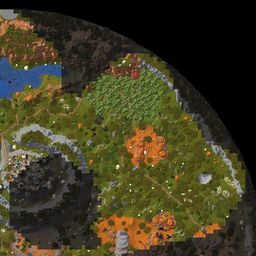
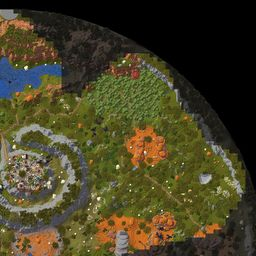
第 2 層探索地圖：被覆寫的那塊改用 wiki 第 2 層地圖補上（仍算已探索）
Claude-Session: https://claude.ai/code/session_01TCxb7TWhtNUuHK8FFaNG7L

Changed region(s): [[0.0312, 0.5938, 0.4062, 1.0]]

diff --git a/changelog.js b/changelog.js
@@ -18,7 +18,7 @@ window.SAO_CHANGELOG=[
   "第 3 層 9 位 NPC 的位置改用站長截圖推算（煉金術士、符文工匠、工具商人等，新增保險箱、拍賣場和 3 位沒有名牌的工匠），第 2 層符文項鍊工匠移到凱順聖所",
   "第 2 層商店賣的神祕護身符（等級 14、深灰色鏈子）和第 1 層的（等級 10、暗紅色鏈子）圖示不同，分成兩件；精通卷軸、重置卷軸的說明改成遊戲中文（精通＝重置技能點數、重置＝重置屬性點數）",
   "名稱裡有第 1 層首領或地下城的裝備（Kazor、墮落者、死神），取得樓層算第 1 層，不再出現在第 2、3 層",
-  "第 2 層探索地圖：烏爾巴斯東南方一塊混進別的世界的地形（茂密森林和黑色區域）已移除，那一帶暫時顯示成未探索",
+  "第 2 層探索地圖：烏爾巴斯東南方一塊被別的世界蓋掉的地形（茂密森林和黑色區域），改成 wiki 第 2 層地圖的同一塊",
   "打包探索地圖認得網站還沒有地圖的新樓層：勾選後一起上傳，網站自動判斷是第幾層（每個樓層第一次上傳不用再等站長先跑）；已知樓層的資料夾就算和網站地圖重疊很少也收得進來",
   "稀有度改成遊戲的分級，顏色和 wiki 一致：普通（綠）、稀有（藍）、史詩（紫）、傳說（金）、神話（紅，遊戲提示框的顏色）；原本的「傳說+」「傳說++」「SS」在遊戲裡都是神話，篩選也合併成「神話」",
   "小修正：地點的「名稱」說明不再和官方中文標題矛盾；探索地圖說明改寫成「合併過 N 次上傳（幾位）」；裝備的效果篩選框加寬"]],

diff --git a/jmmeta.js b/jmmeta.js
@@ -2622,21 +2622,21 @@ window.SAO_JM = {
  },
  "2": {
   "date": "2026-11-12",
-  "pct": 51.6,
+  "pct": 54.0,
   "log": [
    {
     "report": null,
     "date": "2026-11-12",
     "regions": 18,
-    "newChunks": 9264,
+    "newChunks": 9703,
     "by": "IICHENGII"
    }
   ],
-  "chunks": 9264,
+  "chunks": 9703,
   "fix": [
    {
     "date": "2026-11-12",
-    "what": "移除 (0,-1) 那張圖裡混進來的非第 2 層地形（烏爾巴斯東南方的森林和黑色區域），439 個區塊"
+    "what": "(0,-1) 那張圖裡混進來的非第 2 層地形（烏爾巴斯東南方的森林和黑色區域，439 個區塊）換成 wiki 第 2 層地圖的同一塊（站長有探索過，JourneyMap 的原圖被覆寫）"
    }
   ]
  },

diff --git a/CLAUDE.md b/CLAUDE.md
@@ -34,7 +34,7 @@
 | `index.html` | build 產生的檔案，不要直接改。build 會在每個本地 `<script src="x.js">` 後面加 `?v=內容雜湊`（2026-11-02：GitHub Pages 讓瀏覽器快取 10 分鐘，手機曾拿到新頁面配舊 `npcs.js`，篩選顯示錯的類別名稱）。Apps Script／Actions 直接改的資料檔（reports.js、jmmeta.js、formcfg.js）不會更新雜湊，和以前一樣最多 10 分鐘後更新 |
 | `data.js` | 第 1 層：`window.SAO` = MAP、STATUS、ZONES、M（怪物）、ITEMS、EXTRA、TOWNS、SPOTS、QUESTS |
 | `data23.js` | 第 2、3 層：`SAO23_ITEMS`、`SAO23.floors[2/3]`（第 3 層的 `floor3.jpg` 是本站畫的空白格線底圖，上面疊探索地圖）。**2026-11-11**：兩層 `status:"new"`（11/9 開放，官網新聞〈Floors 2 and 3 are open!〉 https://saominecraft.com/us/news/paliers-2-et-3-ouverts ；`soonNote`／樓層資訊列寫「資料還沒有遊戲畫面確認」），`lv` 改成新聞的怪物等級 11–15／15–19；第 2 層 20 個支線（wiki 11/7 刪表，使用者選 B）連同只為支線存在的城鎮（Havca、SamaelTVS、Typpe）和撿取點搬到沒在用的 `F2_SIDE_WIKI_OLD`，遊戲確認後可以放回；`// BEGIN build_mobphotos` 區塊是 `tools/build_mobphotos.py` 產生的「只有官網新聞有」的怪物（`addNews`，接在 wiki 怪物後面、id 不變，`news:1`，類型／行為未知＝`Unknown`／`U`，腐化版沿用本體）；鷹身女妖 1% 掉落改遊戲名 Feather of the Little Flame／Drop（遊戲才有的裝備，圖示從 11/5 拍賣場還原），第 3 層 10 隻補 Corrupted Fragment 100%（遊戲物品說明）；第 2、3 層資料整理報告在 scratchpad `f23/report.md`。**第 2 層地點**（使用者 2026-11-11「二層的傳送點、怪物區先參考互動地圖」）：參考地圖 Beta 資料（scratchpad `f23/ref_f23.json`，座標是它自己的 map-local，還沒對過遊戲）：城鎮 Urbus／Kaelor／Marome／Taran（原本暫稱西部／東部／西南聚落，`old`），參考地圖沒有傳送選單，城鎮標「傳送未知」；9 個怪物區和 3 個地下城入口用 `zone`（字串或陣列），`mons` 在檔尾依區域自動填（含新聞怪物）；地標 4 個。**第 2、3 層 NPC 和首領重生點、第 3 層地點**（使用者 2026-11-11「第2、3層從舊參考地圖補」）：`tools/build_npcs.py` 的 `load23` 讀 maps_floor2.js／maps_floor3.js 全部 NPC（src `ref23`，面板註明 Beta、座標沒對過遊戲；`refaire`→other、`runeCraftsmen`＝符文工匠，歸「其他 NPC」組），npcs.js 有 `2:`、`3:`；`F2.BOSS_SPAWNS`／`F3.BOSS_SPAWNS`（參考地圖名→本站怪物名：Morveth＝Morverth、Alpha of the Woods＝Woodland Alpha、Leader of the Bandits＝Bandit Chief、King of the Cave＝Cave King、Samurai Orc Boss＝Orc Samurai Boss…），`SPAWNS(f)` 每層都讀；第 3 層 26 個 biome 標籤進 `F3.spots`：名稱就是 wiki 區域名（只差 Camp/Camps、字序）的 11 個是怪物區（`zone`），Dungeon The Mysterious Islands 是地下城，其餘地標；Zumfut／Zumfut Mine、Terrialys Well／Pit 名稱不同沒連（note 寫明）；第 3 層沒有框線。**第 3 層地圖** `floor3.jpg` 是本站畫的空白底圖（深色圓、每 100 格格線；size 1700、x0 -253、z0 -79＝參考地圖 map-local 的中心 597,771 半徑 850）：wiki 沒有第 3 層地圖，參考地圖 repo 的 floor3.png 沒有授權，不用。aincradmap.app（Frankiie2121）的第 2、3 層就是 DelayedCode Beta 換介面（11/11 查：第 2 層 20 個地點座標完全相同；沒有授權條款，robots 禁 /api/），不當資料來源。地下城分頁現在也列樓層首領塔（排序：活動 → 首領塔 `isTowerSp`（zh 含「樓層首領」，卡片 `.dgtower`＋「樓層首領塔」標籤）→ 其他），萬聖節活動地下城只在第 1 層列；切樓層時清單沒有目前面板的東西就換成第一個、清單是空的就關掉面板。**第 2 層地圖**：`floor2.jpg` 的 12 個灰色圓點用 OpenCV inpaint 補掉、半徑 1017 外塗黑（原檔 scratchpad `f23/floor2_orig.jpg`），`clip:{c:500,r:484}`；9 個怪物區的 `area` 是本站依 wiki 地圖地形自己描的（不是參考地圖的多邊形）。**滾輪縮放**（使用者 2026-11-11「有延遲感」）：wheel 事件累加、每個動畫畫格只縮放一次（`wheelF`，依 deltaY 連續換算，觸控板也順），縮放中標籤大小變數（`--inv`／`--tk`／`--areaw`）只在倍率變 12% 以上或停下 120 ms 後才更新（`applyVars`）。**`.world` 不能加 `will-change:transform`**（11/11 加過：瀏覽器把整張地圖點陣化後放大，放大時框線、文字、底圖全糊，使用者回報後拿掉）。**讀取速度**（使用者 2026-11-11「讀取非常慢」，1.5 Mbps 手機模擬：地圖 17.7 秒才出現，字型 928 KB、底圖 1.35 MB、怪物頭像 312 KB、新版檢查又抓一次整頁）：`#mapLo`＝`map.lo` 的 512px 預覽圖（`floor1_s.jpg`／`floor2_s.jpg`／`floor3_s.jpg`，約 47 KB）先顯示，`mapImg` 載完才藏；`floor1/2.jpg` 改漸進式 JPEG q85；`img/mobs/*.png` 改 256 色 PNG（`build_mobphotos.py` 的 `png8`）；新版檢查 `updCheck` 只抓頁首 2 KB（Range）、開頁 20 秒後才檢查；**不載入中文網路字型**（使用者選 A：字型清單用 PingFang TC／Noto Sans CJK TC／Microsoft JhengHei 等系統字型，Chakra Petch／JetBrains Mono 照舊）→ 上線後同條件：預覽 4.4 秒、清楚地圖 9.7 秒 |
-| （第 2、3 層的 JourneyMap，2026-11-12） | 站長本機 Claude 列了 `journeymap/data/mp`（`tools/jm_floors_local.md`／`jm_floors_local2.md`，資料 scratchpad `f23/jm_folders.json`、`f23/jm/jm_f23/`，inbox 已刪）：**每一層是不同的伺服器資料夾**（第 1 層 `Triggers_815bd3d6…`、第 2 層 `Triggers_ba411067…/overworld`、第 3 層 `Triggers_95a78a58…/overworld`；別的玩家的 UUID 可能不同，所以一律靠顏色比對認樓層）；以下用途是**從資料夾名稱和圖片推測、站長還沒確認**：沒有 UUID 的 `Triggers/overworld` 像大廳（灰色平台、放射狀結構），不收；`…_djtaurus`（2 次進場，只有洞穴層）可能是第 2 層的牛人地下城，網站還不認得；`gorge_rugiboeuf`、`pre_breches` 在第 2 層的座標上、地形大致相同但**不是原樣**（峽谷的競技場中間沒有沙地圓盤），像是首領戰的副本 → 第 2、3 層只收 `overworld` 資料夾；`repaire_velindra`、`chambre_ambre` 只有洞穴層，不收；**更正（2026-11-12 使用者「二層探索地圖有問題」）**：(0,-1) 那張圖在第 2 層資料夾裡**本身就被別的世界的畫面蓋掉一塊**（烏爾巴斯東南方的茂密森林＋黑色虛空，和 wiki 第 2 層地圖完全不同；第 3 層資料夾的 (0,-1) 是同一塊的一部分，一模一樣），站長說那一帶有在第 2 層探索過＝原本的真地形被 JourneyMap 覆寫、沒有正確的版本可還原。已從 `tiles/f2jm` 拿掉 439 個區塊（scratchpad `f2mask.npy`：和 wiki 地圖逐區塊比色＋補洞，`f2cmp.png`／`f2mask.png`），改回未探索的變暗 wiki 底；第 2 層探索 54%→51.6%，jmmeta `"2".fix` 記錄。那一帶重新走過、用打包工具上傳就會補回（區塊現在是未探索，會被當成新的收）。**座標**：第 2 層 JourneyMap 用 SIFT 對 wiki 圖 2,030 點、殘差 0.18 px：網站原本的 `size 2124、x0=z0=-1062` 完全正確；參考互動地圖的第 2 層座標＝遊戲座標（Taurus 塔中心 −160.6, 795.8 對它的 −160, 795）；第 3 層它的 floor3.png 對 JourneyMap 只差 X 2 格（沒有把點位移 2 格：不知道它的點是遊戲裡讀的還是從圖上量的）。只驗證了座標系統和 Taurus 塔，個別 NPC／首領點沒驗證，說明文字照這樣寫。 |
+| （第 2、3 層的 JourneyMap，2026-11-12） | 站長本機 Claude 列了 `journeymap/data/mp`（`tools/jm_floors_local.md`／`jm_floors_local2.md`，資料 scratchpad `f23/jm_folders.json`、`f23/jm/jm_f23/`，inbox 已刪）：**每一層是不同的伺服器資料夾**（第 1 層 `Triggers_815bd3d6…`、第 2 層 `Triggers_ba411067…/overworld`、第 3 層 `Triggers_95a78a58…/overworld`；別的玩家的 UUID 可能不同，所以一律靠顏色比對認樓層）；以下用途是**從資料夾名稱和圖片推測、站長還沒確認**：沒有 UUID 的 `Triggers/overworld` 像大廳（灰色平台、放射狀結構），不收；`…_djtaurus`（2 次進場，只有洞穴層）可能是第 2 層的牛人地下城，網站還不認得；`gorge_rugiboeuf`、`pre_breches` 在第 2 層的座標上、地形大致相同但**不是原樣**（峽谷的競技場中間沒有沙地圓盤），像是首領戰的副本 → 第 2、3 層只收 `overworld` 資料夾；`repaire_velindra`、`chambre_ambre` 只有洞穴層，不收；**更正（2026-11-12 使用者「二層探索地圖有問題」）**：(0,-1) 那張圖在第 2 層資料夾裡**本身就被別的世界的畫面蓋掉一塊**（烏爾巴斯東南方的茂密森林＋黑色虛空，和 wiki 第 2 層地圖完全不同；第 3 層資料夾的 (0,-1) 是同一塊的一部分，一模一樣），站長說那一帶有在第 2 層探索過＝原本的真地形被 JourneyMap 覆寫、沒有正確的版本可還原。`tiles/f2jm` 的這 439 個區塊（scratchpad `f2mask.npy`：和 wiki 地圖逐區塊比色＋補洞，`f2cmp.png`／`f2mask.png`）**換成 wiki 第 2 層地圖的同一塊（原色、不變暗），仍算已探索**（使用者「不應該是未探索」；先做的「改回未探索」被否決）：wiki 圖和網站框架用 SIFT 對過（1 px≈1 格），接縫對得上；jmmeta `"2".fix` 記錄，探索比例維持 54%。之後有人上傳那一帶的真 JourneyMap 圖會蓋過去（已探索區塊照常比色，wiki 那塊的顏色和 JourneyMap 相近，應該對得上，沒實測）。**座標**：第 2 層 JourneyMap 用 SIFT 對 wiki 圖 2,030 點、殘差 0.18 px：網站原本的 `size 2124、x0=z0=-1062` 完全正確；參考互動地圖的第 2 層座標＝遊戲座標（Taurus 塔中心 −160.6, 795.8 對它的 −160, 795）；第 3 層它的 floor3.png 對 JourneyMap 只差 X 2 格（沒有把點位移 2 格：不知道它的點是遊戲裡讀的還是從圖上量的）。只驗證了座標系統和 Taurus 塔，個別 NPC／首領點沒驗證，說明文字照這樣寫。 |
 | （2026-11-08～11-12 截圖 in24，373 張） | 站長本機 Claude 推到 `inbox/`（2fda9f2～f27f40e），轉存 scratchpad `in24/`，轉錄 `in24_tA～tC.json/.md`、網站畫面回饋 `in24_snips.md`，從分支刪掉。**使用者 2026-11-12 決定**：①腐化碎片長得不一樣＝三件不同物品（`data23.js` 的 `Corrupted Fragment`／`(2)`／`(3)`＝綠／藍／紫框，`fr` 都是 null，哪一件是官網 2380 不知道；微腐化魔法書要 32／16／8，配方列順序推測對應顏色）；②同名物品依**圖示**判斷（第 2 層商店的神祕護身符是深灰鏈子，第 1 層是暗紅 → `Occult Amulet (2)`，SAO23_ITEMS 的 EQX）；③「3A」第 2、3 層 NPC 位置用截圖推算（F3 除錯畫面的玩家座標＋準星打到的方塊，NPC 在兩者之間，約 ±2 格）：`build_npcs.py` 的 `CALC23`／`NEW23`，`SAO_NPC_CALC` 的 key 是「樓層\|名稱」、`m:"f3"`，`npcCalcNote` 依樓層找；`NPC_NOTE` 只用在第 1 層（第 3 層也有 Vault、Auction House）；④「4A」名稱有 Kazor／Déchu／Faucheuse／Reaper／Fallen、又沒有其他取得資料的裝備，`objFloors` 算第 1 層（之後再檢查架構）。**配方分樓層**：`recipes.js` 的 key 是第 1 層 NPC 名或「3\|Alchemist」（第 3 層也有 Alchemist），網站 `rKey`／`rSplit`／`RCP(f,name)`；`build_recipes.py` 的 `SHOTS23`（(樓層, npcs.js 名稱) → 列）／`OID23`／`LV23`；配方分頁只列目前這一層（`RCVF`、`rcFill` 換樓層時重建分類和 NPC 下拉）；材料沒有英文名的直接寫遊戲中文名，`en2go` 也索引 zhnames 的 `zh`（中文名對得到官網 id 就有圖示和連結）。第 3 層 NPC 對照：神器鐵匠（視窗 P3 - Craft Artefact de Sylnovar）＝參考地圖 Sylnovar Accessories Blacksmith（差 19 格，推測）；3 位沒有名牌的工匠用視窗標題當名稱；第 2 層符文項鍊（視窗「2 -」）掛在 Manufacturer of the Runic Necklace（參考地圖差 39 格，推測）；骷髏頭骨（第 2 層 30 分鐘版）的材料順序看不出來，沒收；死靈法師魔杖只看到「製作地點」，沒收配方。`zhnames.js` 加約 124 筆（`src:"shot24"`）、`mobsByName` 50、`places`（公牛之湖、凱順聖所、埃蘭之地、烏爾巴斯、瑪羅姆、阿斯特里歐斯的巢穴）、F3 NPC 中文和 `npcEn`；`sets.js` 加 11 套（中文 `zh:1`）和品質強化劑 III／品質藥水 IV～VI 效果（`effZh` 認「applies 15min of cooldown」）；`gamestats.js` 加 13 件（1547／1549／1551 只改稀有度 EPIC）；`gameinfo.js` 精通卷軸＝重置技能點數、重置卷軸＝重置屬性點數（11/4 英文提示寫 attribute，照較新的中文）；`data23.js` 尾端 `GAME_DROPS`（遊戲取得途徑的掉落，蓋過新聞／wiki，怪物 note 註明；Winnie 的熊脂拿掉＝遊戲只列森林熊）；`mainq.js` 第 2 層 6 個、第 3 層 1 個主線（標題是遊戲中文名，每層自己的編號，`tip` 寫只看到這一步）；`f2boss` 加 `dg`＝阿斯特里歐斯的巢穴（是不是這座塔還不確定，note 寫明；`dg.lootNote`、`dg.key` 沒有做法時面板顯示鑰匙名）。還沒做：第 2 層玄武岩三角洲、帕薩艾爾山（網站沒有地點）、Spider Loot Repreneur 的位置（看不出是哪一位收購商）、腐化碎片圖示、拍賣場價格（不放）。 |
 | `bosses.js` | 世界首領 Galiath、獨特怪物 Seraphel、wiki 列的其他首領 |
 | `img/bosses/` | 世界王頁的首領模型圖（2026-11-06，使用者選 A）：官網世界首領頁 2026-11-05 改版成「Bestiary」，「See up close」視窗有 `/da/bestiary/<id>-34.webp`（3/4）和 `-face.webp`（正面），透明背景、高 1024px，伺服器時間台灣 11/5 15:01 上傳。裁到模型範圍、縮成高 520px 的 webp，`bosses.js` 的 `img`／`imgFront`，`bFig` 畫圖框和「3/4／正面」切換；原本的徽章插畫 wb_galiath.jpg／wb_seraphel.jpg 已刪。**只有這兩隻**：用 Playwright 跑過官網 sitemap 全部 23 頁、點開視窗，並用本站 136 個怪物名稱試 `/da/bestiary/<名稱>-34.webp`，都沒有其他怪物；官網的 /bestiary、/monsters、/codex 是 404，/map 暫停（「not available for now」），/aincrad-academy 還沒有課程。官網 Bestiary 的文字資料和 10/30 抓的一樣（輪盤仍是舊的 7 項，本站用遊戲排隊告示的 10 項） |
